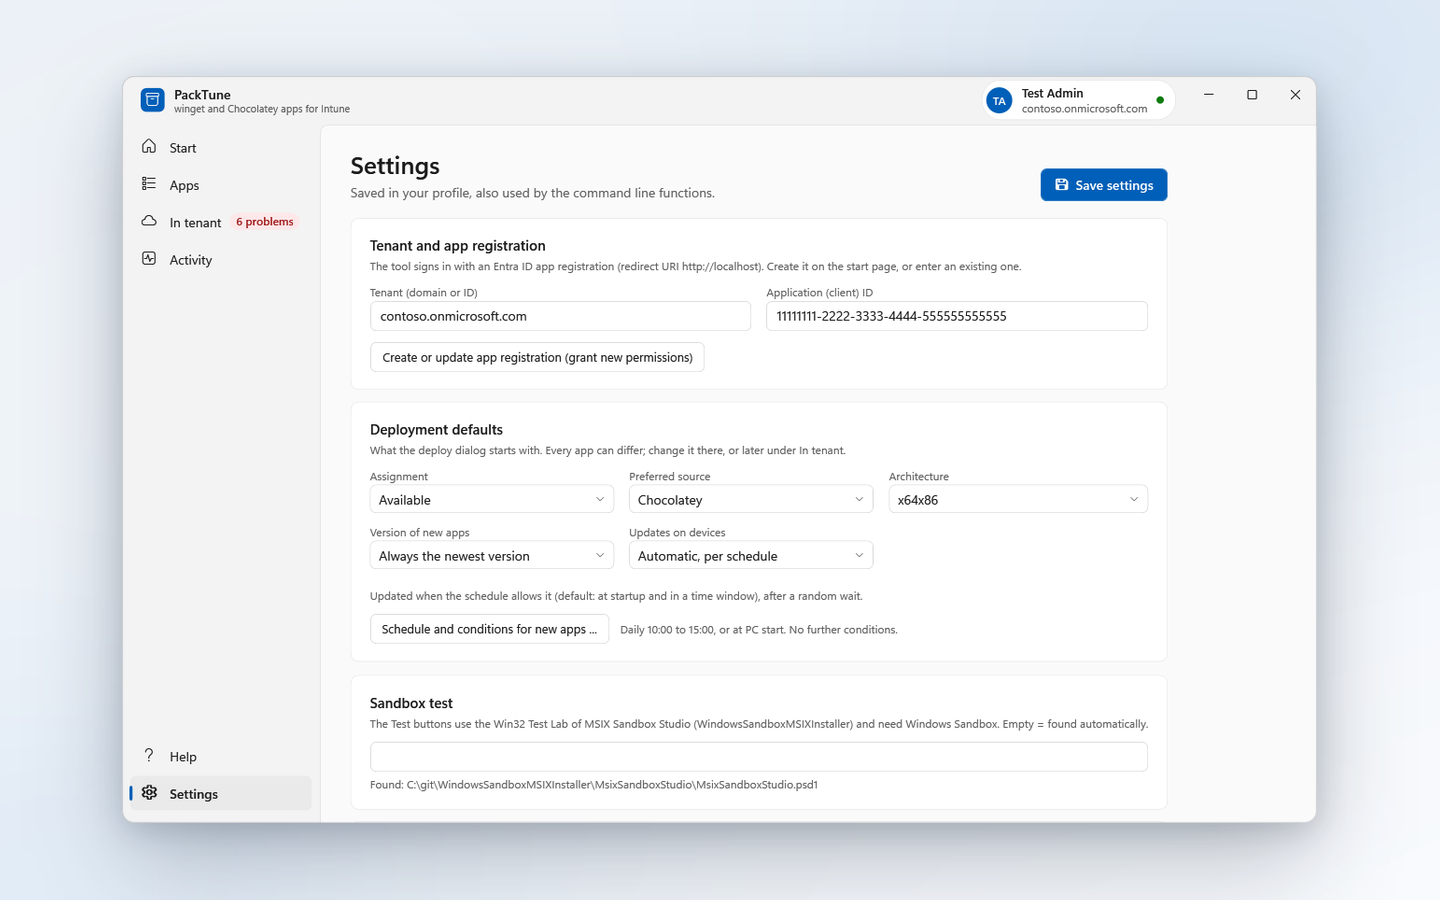
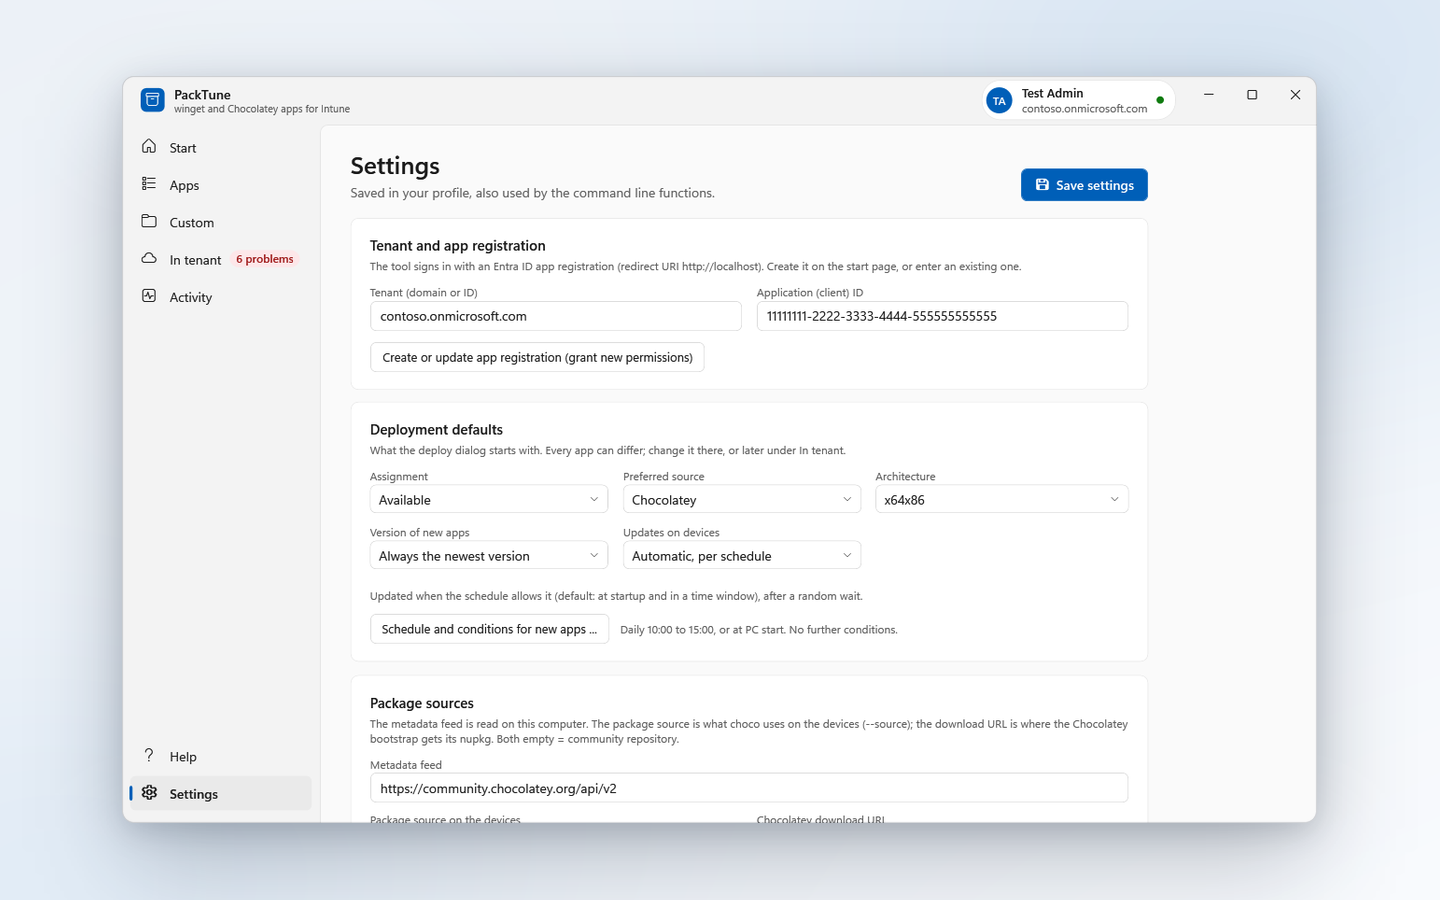
PackTune no longer needs MSIX Sandbox Studio: Test in sandbox and the custom MSIX path use the integrated module; Find-SandboxStudio, the Sandbox Studio setting and its wording removed; Start item checks Windows Sandbox and the capture tools (download on first use); docs, plan decision, screenshots,

diff --git a/UI/MainWindow.xaml b/UI/MainWindow.xaml
@@ -784,15 +784,6 @@
 
                                     <Border Style="{StaticResource CardBox}" Padding="20,18" Margin="0,14,0,0">
                                         <StackPanel>
-                                            <TextBlock Text="Sandbox test" Style="{StaticResource CardTitle}"/>
-                                            <TextBlock Style="{StaticResource Hint}" Margin="0,4,0,12" Text="The Test buttons use the Win32 Test Lab of MSIX Sandbox Studio (WindowsSandboxMSIXInstaller) and need Windows Sandbox. Empty = found automatically."/>
-                                            <TextBox x:Name="TxtSandboxStudioPath" AutomationProperties.Name="Sandbox studio folder"/>
-                                            <TextBlock x:Name="TxtSandboxStudioState" Style="{StaticResource Hint}" Margin="0,6,0,0"/>
-                                        </StackPanel>
-                                    </Border>
-
-                                    <Border Style="{StaticResource CardBox}" Padding="20,18" Margin="0,14,0,0">
-                                        <StackPanel>
                                             <TextBlock Text="Package sources" Style="{StaticResource CardTitle}"/>
                                             <TextBlock Style="{StaticResource Hint}" Margin="0,4,0,12" Text="The metadata feed is read on this computer. The package source is what choco uses on the devices (--source); the download URL is where the Chocolatey bootstrap gets its nupkg. Both empty = community repository."/>
                                             <TextBlock Text="Metadata feed" Style="{StaticResource SmallLabel}"/>

diff --git a/README.md b/README.md
@@ -48,7 +48,7 @@ Start the interface with **Start.cmd** (or `powershell.exe -ExecutionPolicy Bypa
 
 ![Start](docs/screenshots/start.png)
 
-The readiness list checks the IntuneWin32App module, the app registration, the sign-in, the dependency app (PackTune Runtime) in the tenant and, as optional items, the status report and the sandbox test. The sandbox item checks for Windows Sandbox (not available on Windows Home; Install asks for administrator approval and needs a restart, and Set up everything never installs it) and for MSIX Sandbox Studio; until both are there the Test buttons are disabled and say why. A red item says why and has the button that fixes it. **Set up everything** runs all fixes one after another.
+The readiness list checks the IntuneWin32App module, the app registration, the sign-in, the dependency app (PackTune Runtime) in the tenant and, as optional items, the status report and the sandbox test. The sandbox item checks for Windows Sandbox (not available on Windows Home; Install asks for administrator approval and needs a restart, and Set up everything never installs it) and for the capture tools (Microsoft's MSIX Packaging Tool and signing tools, downloaded on first use or with **Download now**, checked against Microsoft's signature and a hash list); without Windows Sandbox the Test buttons are disabled and say why. Nothing else has to be installed: the sandbox functions are part of PackTune (`Modules\PackTune.Sandbox.psm1` and the scripts in `Sandbox\`). A red item says why and has the button that fixes it. **Set up everything** runs all fixes one after another.
 
 ### Apps
 
@@ -66,15 +66,21 @@ One list for both sources: the curated list in `catalog.json`, the 200 most down
 
 ### Custom applications
 
+![Custom applications](docs/screenshots/custom.png)
+
 Your own software next to the catalog apps, as Win32 apps in Intune. **New application** asks what you have:
 
 - **MSI**: fully automatic. PackTune reads the MSI without installing it (product code, name, version, manufacturer, upgrade code), builds the package with silent `msiexec` scripts (install as SYSTEM inside the device lock, remove by product code) and detects the app by product code and version. Extra public properties (`ALLUSERS=1 INSTALLDIR=...`) are passed to msiexec. **Test in sandbox** runs exactly these scripts in Windows Sandbox.
-- **Other** (EXE setups, scripts, several files): put ALL installation files into one folder and choose the entry point and the silent arguments. PackTune captures an MSIX from it automatically in a fresh Windows Sandbox (needs MSIX Sandbox Studio 2.5 or newer), signs it on this PC with a certificate made for this version alone (non-exportable key, deleted right after signing, never stored) and delivers it as **one** Win32 app: the package holds the MSIX and the public certificate of that version; `install.ps1` (SYSTEM) puts the certificate into `LocalMachine\TrustedPeople` and provisions the MSIX for all users. The publisher stays `CN=PackTune <name>` for every version, so updates keep the identity. A failed update puts the earlier version back and keeps its certificate; uninstall removes only the certificate of that version.
+- **Other** (EXE setups, scripts, several files): put ALL installation files into one folder and choose the entry point and the silent arguments. PackTune captures an MSIX from it automatically in a fresh Windows Sandbox (needs Windows Sandbox; Microsoft's capture tools are downloaded on first use), signs it on this PC with a certificate made for this version alone (non-exportable key, deleted right after signing, never stored) and delivers it as **one** Win32 app: the package holds the MSIX and the public certificate of that version; `install.ps1` (SYSTEM) puts the certificate into `LocalMachine\TrustedPeople` and provisions the MSIX for all users. The publisher stays `CN=PackTune <name>` for every version, so updates keep the identity. A failed update puts the earlier version back and keeps its certificate; uninstall removes only the certificate of that version.
 - **New version**: for an MSI a newer MSI of the same product (new product code); for an MSIX application the previous MSIX is restored from the package store in a fresh sandbox, the new installer (or the stored, possibly edited, files) runs on top, and the result goes out as a new version. Both create a new app that supersedes the old one (type update, assignments copied, auto-update for Available apps); **Remove-PackTuneSupersededApps** removes old versions no device has any more.
 - **Export to edit** downloads one version (package, original installer files, certificate, recipe, documentation) from the package store, checked against the manifest. Change the files, then **New version** with that folder.
 - **Remove from Intune** asks whether the stored files go too (SharePoint keeps them in its recycle bin). Devices keep the installed software.
 
-**Package store.** Intune cannot give content back, so every version is kept in the document library `PackTune Packages` of a private SharePoint site: `<app id>/<version>/` with `package.msix` or `package.intunewin`, `installer.zip` (the original installer files, always), `recipe.json`, `signing.cer`, `documentation.zip` and `manifest.json` (SHA256 of everything, written last). Set it up on the Start page: create a private site (members: the Intune administrators only, because whoever can write there could replace an installer that becomes an app for all devices), enter its address, let an administrator grant PackTune access to that one site (**Grant access**; the sign-in needs `Sites.FullControl.All` for this call only, daily work uses the delegated `Sites.Selected`), create the library. The start of the manifest hash is written into the notes of every Intune app, so an export or an update refuses files that do not match what was packaged. MSIX applications need the store; MSI applications use it when it is set up. Requirement for the capture: Windows Sandbox and MSIX Sandbox Studio 2.5.0 or newer (readiness items on the Start page).
+![New application](docs/screenshots/custom-dialog.png)
+
+**Package store.** Intune cannot give content back, so every version is kept in the document library `PackTune Packages` of a private SharePoint site: `<app id>/<version>/` with `package.msix` or `package.intunewin`, `installer.zip` (the original installer files, always), `recipe.json`, `signing.cer`, `documentation.zip` and `manifest.json` (SHA256 of everything, written last). Set it up on the Start page: create a private site (members: the Intune administrators only, because whoever can write there could replace an installer that becomes an app for all devices), enter its address, let an administrator grant PackTune access to that one site (**Grant access**; the sign-in needs `Sites.FullControl.All` for this call only, daily work uses the delegated `Sites.Selected`), create the library. The start of the manifest hash is written into the notes of every Intune app, so an export or an update refuses files that do not match what was packaged. MSIX applications need the store; MSI applications use it when it is set up. Requirement for the capture: Windows Sandbox (readiness item on the Start page).
+
+![Package store](docs/screenshots/package-store.png)
 ### Review and deploy
 
 ![Review and deploy](docs/screenshots/deploy.png)
@@ -156,7 +162,6 @@ Deployments run one after another in the background, and the window stays usable
 - **Tenant and app registration**: tenant (domain or ID) and client ID. *Create or update app registration* runs the setup again, adds missing permissions and the admin consent.
 - **Deployment defaults**: assignment, preferred source, architecture, version, update mode and the default schedule for new apps.
 - **Package sources**: the metadata feed (read on this computer), the package source used on the devices (`choco --source`), and the download URL of the Chocolatey bootstrap. Empty = the community repository.
-- **Sandbox test**: the folder of MSIX Sandbox Studio ([WindowsSandboxMSIXInstaller](https://github.com/dominguez-posh/WindowsSandboxMSIXInstaller)). It is found automatically in the folder next to this repository, in `C:\git\WindowsSandboxMSIXInstaller`, or as installed module. The tests need Windows Sandbox.
 - Module installation and the work folder.
 
 Settings are saved in `%LOCALAPPDATA%\PackTune\settings.json` and are also used by the command line functions. On the first start after the rename they are copied (not moved) from `%LOCALAPPDATA%\IntuneChocoDeployment`, together with the feed and icon caches. Package infos are cached for 24 hours; SVG icons are rendered once with Edge and kept in the work folder.
@@ -244,7 +249,8 @@ Without parameters you are asked for tenant and client ID. A browser window open
 | `Update-PackTuneApp` | Changes an app in place: version, update mode, schedule |
 | `Publish-PackTuneRelease` | Releases a version the right way for the assignment (supersedence for Available apps, in place for Required) |
 | `Remove-PackTuneSupersededApps` | Removes superseded apps that no device reports as installed |
-| `Test-PackTunePackage` | Tests a package in Windows Sandbox |
+| `Test-PackTunePackage` | Tests a package in Windows Sandbox (test lab built into PackTune) |
+| `Invoke-PackTuneMsixCapture` / `Update-PackTuneToolchain` | Sandbox module: capture a folder as MSIX (also as update), download the capture tools |
 | `New-PackTuneCustomMsiApp` | Deploys an MSI as a Win32 app (product code detection) |
 | `New-PackTuneCustomOtherApp` | Captures an installation folder as MSIX and deploys it as one Win32 app |
 | `Publish-PackTuneCustomVersion` / `Update-PackTuneCustomOtherApp` | New version of an MSI / MSIX application through supersedence |
@@ -292,7 +298,7 @@ Run in Windows PowerShell 5.1 from the repository folder. None of them contacts 
 - `Tests\Invoke-GuiSmoke.ps1`: starts the interface off-screen with a fake IntuneWin32App module (`Tests\Fakes`), its own `%LOCALAPPDATA%` and a stand-in for the Microsoft sign-in. It drives every page and checks the results. Package infos come from the real Chocolatey feed.
 - `Tests\Check-Insight.ps1`: import, status and device-log functions with fake Graph responses.
 - `Tests\Check-Schedule.ps1`: policy round trip through the notes, fingerprint, notes length and the generated device scripts (they are parsed, never run).
-- `Tests\Check-Custom.ps1`, `Check-CustomMsix.ps1`, `Check-Store.ps1`: custom applications (MSI read from a Property table, the device scripts, certificate per version made and removed around the capture, deployment, new version, export, delete) and the package store against a fake SharePoint in memory (upload sessions, manifest, tamper tests, zip slip). `Tests\Spike-MsixWin32.ps1` runs the MSIX install, detect, failed-update restore, update and uninstall scripts as SYSTEM in Windows Sandbox.
+- `Tests\Check-Sandbox.ps1`: the sandbox module without a sandbox (fake launcher, a real single-use certificate that is removed again, fake signtool, toolchain hashes, entry point rules, registry restore of the update capture). `Tests\Check-Custom.ps1`, `Check-CustomMsix.ps1`, `Check-Store.ps1`: custom applications (MSI read from a Property table, the device scripts, certificate per version made and removed around the capture, deployment, new version, export, delete) and the package store against a fake SharePoint in memory (upload sessions, manifest, tamper tests, zip slip). `Tests\Spike-MsixWin32.ps1` runs the MSIX install, detect, failed-update restore, update and uninstall scripts as SYSTEM in Windows Sandbox.
 - `Tests\Check-Sources.ps1`: recommended source, source filter, deployment per source, PackTune Runtime dependency and migration, release by supersedence or in place.
 
 The screenshots and the tour are rendered from the same demo data and refreshed with:

diff --git a/docs/plans/custom-applications.md b/docs/plans/custom-applications.md
@@ -12,7 +12,7 @@ The user approved this plan with all recommendations of the first version, with 
 | 1 | Certificates: a new self-signed code-signing certificate per package VERSION, subject fixed per app (`CN=PackTune <App>`), key non-exportable, deleted right after signing, RFC 3161 timestamp required. |
 | 2 | SharePoint: private site, library "PackTune Packages", delegated `Sites.Selected` with a one-time admin grant, the admin creates the site, PackTune creates the library. Only the Intune administrator group may change the library. MSI versions are stored too. On delete the SharePoint copy is kept by default. |
 | 3 | **Change: a custom MSIX ends up as ONE Intune app.** MSIX is delivered as a Win32 app (.intunewin) containing the MSIX and the public certificate of that version. Install script: certificate into `LocalMachine\TrustedPeople`, then `Add-AppxProvisionedPackage` for all users. Detection checks the provisioned package version. Uninstall removes the package and only that version's certificate. Update = new Win32 app version with supersedence or in place, like the rest of PackTune. **No LOB app, no custom OMA-URI certificate profile, no certificate cleanup of profiles.** |
-| 4 | The module (MSIX Sandbox Studio) is changed directly for the gaps; PackTune checks a minimum module version; without the module the page stays disabled. |
+| 4 | **Replaced: the sandbox functions are integrated into PackTune, no dependency on MSIX Sandbox Studio.** `Modules\PackTune.Sandbox.psm1` and `Sandbox\*.ps1` hold only what PackTune needs: toolchain download on first use (Microsoft signature and SHA256 list), `.wsb` creation and launch, unattended capture of a folder and of an update on a previous MSIX, single-use certificate, signing by thumbprint with a mandatory timestamp, package identity reader, and the test lab (install, detect, uninstall as SYSTEM, verdict). Code taken over from Studio 2.5.0 (same author, MIT) and adapted; the registry restore of the update capture is fixed (a protected key no longer aborts it). The setting `SandboxStudioPath` is ignored. The Start item "Sandbox test" checks Windows Sandbox and the capture tools. (The earlier decision: Studio is changed directly, minimum version checked, page disabled without it.) |
 | 5 | Order of work: first the internal rename and the GitHub repository rename (PackTune), then Custom Applications (phase 0 spike needs a test tenant, still open), then Golden Master. |
 
 ## 1. Goal
@@ -270,7 +270,7 @@ Group.Read.All. New: `Sites.Selected` (daily), `Sites.FullControl.All` (one-time
 - Progress dialog with the activity log (preparing, installing, capturing, building, signing, wrapping, testing,
   uploading, storing); one sandbox job at a time, further jobs queue.
 - Dialogs for Update, Export (version list, target folder), Delete (what goes, checkboxes).
-- Readiness: Windows Sandbox available, MSIX Sandbox Studio found (minimum version), Package store.
+- Readiness: Windows Sandbox available, the capture tools (downloaded on first use), Package store (decision 4: integrated sandbox, no Studio).
 - Wired in phase 5 after the backend functions (section 11).
 
 ## 10. Failure handling
